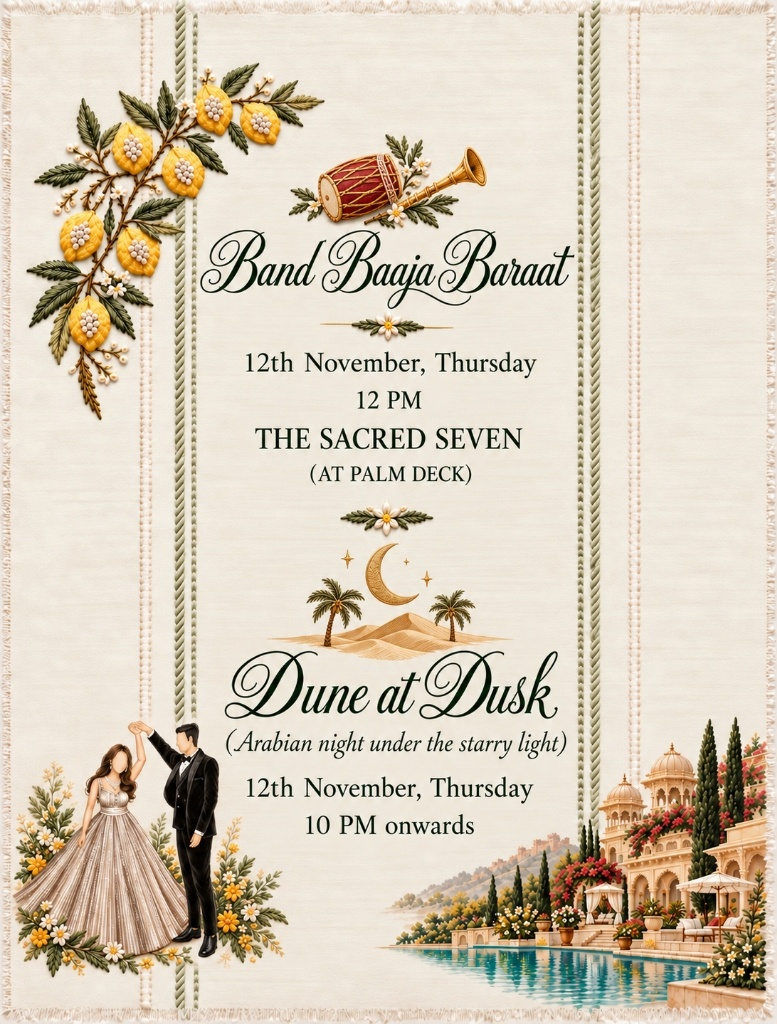
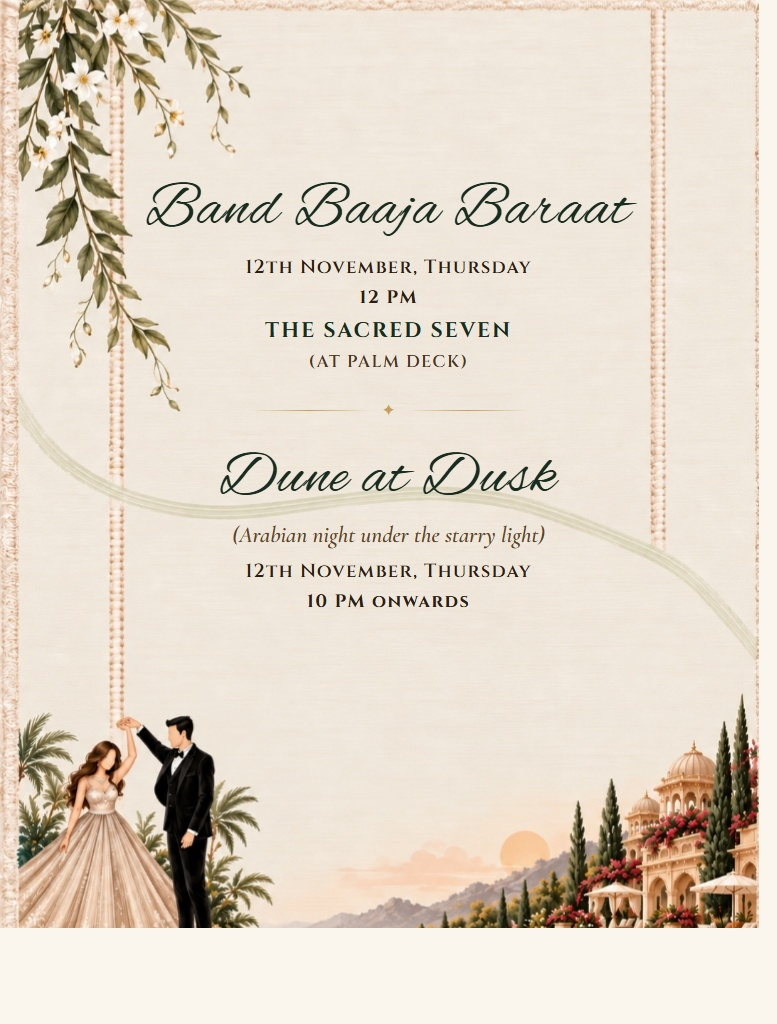
Update Day 2 itinerary card with exact typography on clean background and remove external Day 1/Day 2 header bars

diff --git a/assets/index-PE0t8Bmj.js b/assets/index-PE0t8Bmj.js
@@ -611,15 +611,13 @@ function jV(){
   const cards = [
     {
       id: "day1",
-      dayTag: "DAY 1 · WEDNESDAY, 11TH NOVEMBER",
-      image: "/assets/wedding/itinerary_card_1.jpg",
-      alt: "Pyaar Ka Rang (Henna & Haldi) & Shaam Shandaar (Sangeet)"
+      image: "/assets/wedding/itinerary_card_1.jpg?v=4",
+      alt: "Pyaar Ka Rang and Shaam Shandaar"
     },
     {
       id: "day2",
-      dayTag: "DAY 2 · THURSDAY, 12TH NOVEMBER",
-      image: "/assets/wedding/itinerary_card_2.jpg",
-      alt: "Band Baaja Baraat (Wedding Ceremony) & Dune At Dusk (After Party)"
+      image: "/assets/wedding/itinerary_card_2.jpg?v=4",
+      alt: "Band Baaja Baraat and Dune At Dusk"
     }
   ];
 
@@ -639,7 +637,7 @@ function jV(){
             d.jsx("p", {
               className: "text-xs md:text-sm uppercase tracking-[0.3em] text-[#8b6534] font-bold",
               style: {fontFamily: "'Cinzel', 'Playfair Display', serif"},
-              children: "✦ WEDDING CELEBRATIONS ✦"
+              children: "✖ WEDDING CELEBRATIONS ✖"
             }),
             d.jsx("h2", {
               className: "text-4xl md:text-6xl text-[#3d2716] font-normal leading-tight",
@@ -658,29 +656,22 @@ function jV(){
         }),
         d.jsx("div", {
           className: "grid grid-cols-1 lg:grid-cols-2 gap-8 md:gap-10 max-w-5xl mx-auto items-start",
-          children: cards.map((card, idx) => d.jsxs(he.div, {
+          children: cards.map((card, idx) => d.jsx(he.div, {
             key: card.id,
             initial: {opacity: 0, y: 30},
             whileInView: {opacity: 1, y: 0},
             viewport: {once: !0},
             transition: {duration: 0.7, delay: idx * 0.2},
             className: "group relative rounded-3xl overflow-hidden shadow-2xl border-2 border-[#c5a059]/50 bg-[#fffdfa] transition-all duration-300 hover:-translate-y-1.5 hover:shadow-[0_20px_35px_rgba(197,160,89,0.25)]",
-            children: [
-              d.jsx("div", {
-                className: "bg-gradient-to-r from-[#8b6534] via-[#a8824b] to-[#8b6534] text-[#fffdfa] py-3.5 px-4 text-center text-xs md:text-sm tracking-[0.2em] uppercase font-bold border-b border-[#c5a059]/40 shadow-sm",
-                style: {fontFamily: "'Cinzel', 'Playfair Display', serif"},
-                children: card.dayTag
-              }),
-              d.jsx("div", {
-                className: "relative w-full overflow-hidden bg-[#faf6ee]",
-                children: d.jsx("img", {
-                  src: card.image,
-                  alt: card.alt,
-                  className: "w-full h-auto block select-none pointer-events-none transition-transform duration-700 group-hover:scale-[1.02]",
-                  draggable: !1
-                })
+            children: d.jsx("div", {
+              className: "relative w-full overflow-hidden bg-[#faf6ee]",
+              children: d.jsx("img", {
+                src: card.image,
+                alt: card.alt,
+                className: "w-full h-auto block select-none pointer-events-none transition-transform duration-700 group-hover:scale-[1.02]",
+                draggable: !1
               })
-            ]
+            })
           }, card.id))
         })
       ]
